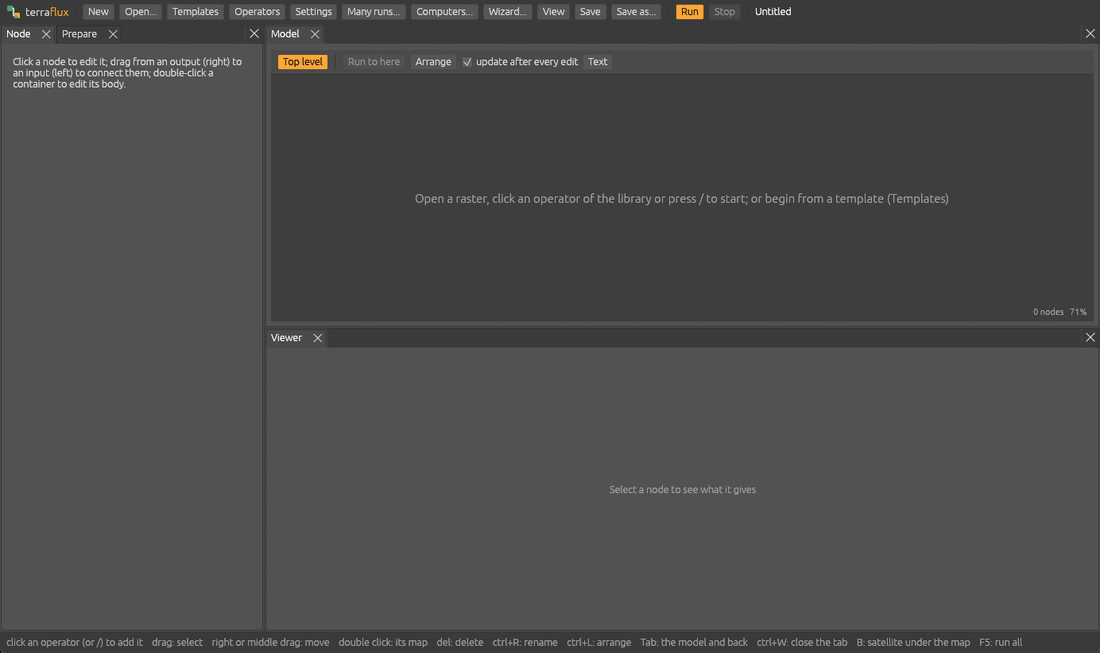
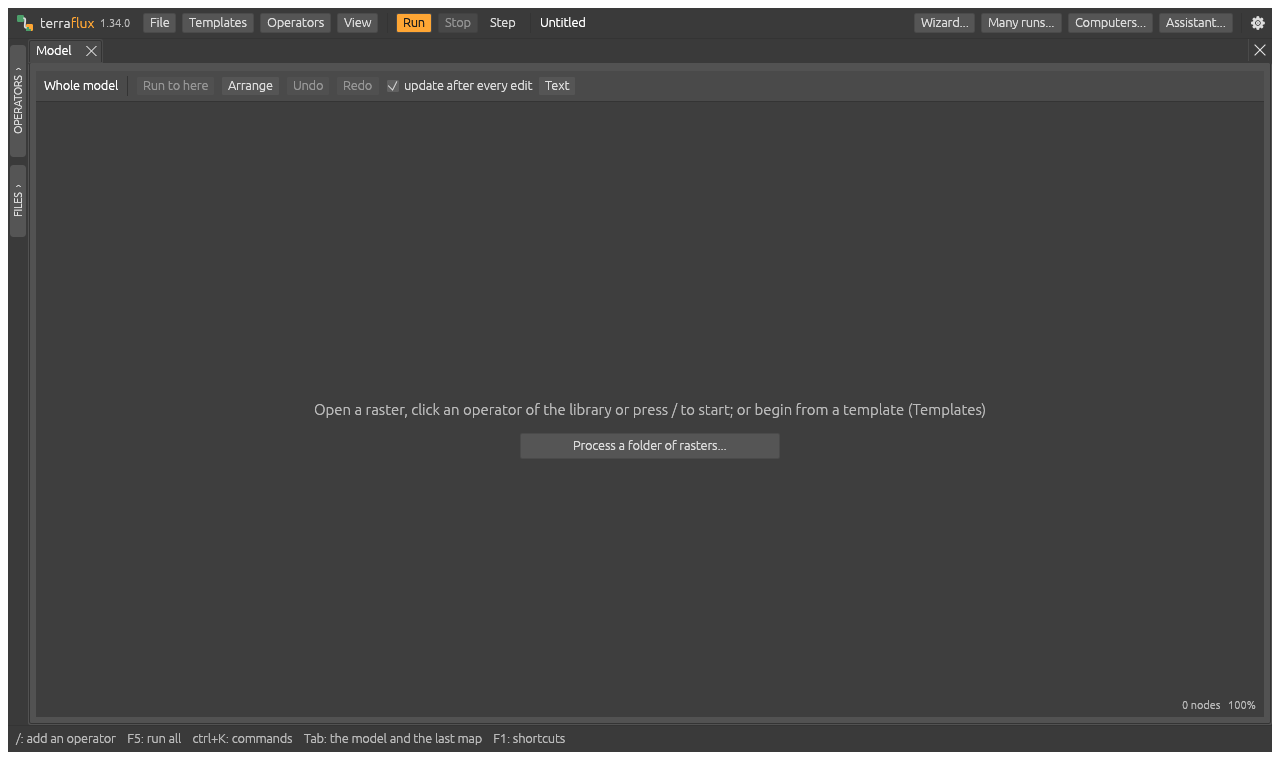
docs(site): the tour's pictures of the window made again from 1.34, by a test

diff --git a/crates/app/tests/readme_images.rs b/crates/app/tests/readme_images.rs
@@ -26,6 +26,14 @@ fn harness() -> Harness<'static, TerrafluxApp> {
 
 /// A window of `size` points drawn at `ppp` pixels a point (larger, for a picture cut to one part of it).
 fn harness_at(size: (f32, f32), ppp: f32) -> Harness<'static, TerrafluxApp> {
+    harness_marked(size, ppp, Marks::default())
+}
+
+/// Numbers drawn over the window (a picture's parts, explained below it): where, and the number.
+type Marks = std::sync::Arc<std::sync::Mutex<Vec<(egui::Pos2, String)>>>;
+
+/// A window with `marks` drawn over it, each number in an orange disc.
+fn harness_marked(size: (f32, f32), ppp: f32, marks: Marks) -> Harness<'static, TerrafluxApp> {
     let dir = PathBuf::from(env!("CARGO_TARGET_TMPDIR"));
     std::fs::create_dir_all(&dir).unwrap();
     unsafe { std::env::set_var("TERRAFLUX_SETTINGS", dir.join("readme-settings.json")) };
@@ -39,7 +47,28 @@ fn harness_at(size: (f32, f32), ppp: f32) -> Harness<'static, TerrafluxApp> {
         .with_size(size)
         .with_pixels_per_point(ppp)
         .renderer(egui_kittest::wgpu::WgpuTestRenderer::from_render_state(rs))
-        .build_ui_state(|ui, app: &mut TerrafluxApp| app.frame(ui), TerrafluxApp::new(None));
+        .build_ui_state(
+            move |ui, app: &mut TerrafluxApp| {
+                app.frame(ui);
+                let painter = ui.ctx().layer_painter(egui::LayerId::new(egui::Order::Tooltip, egui::Id::new("marks")));
+                for (at, n) in marks.lock().unwrap().iter() {
+                    painter.circle(
+                        *at,
+                        11.0,
+                        egui::Color32::from_rgb(240, 160, 20),
+                        egui::Stroke::new(1.5, egui::Color32::BLACK),
+                    );
+                    painter.text(
+                        *at,
+                        egui::Align2::CENTER_CENTER,
+                        n,
+                        egui::FontId::proportional(13.0),
+                        egui::Color32::BLACK,
+                    );
+                }
+            },
+            TerrafluxApp::new(None),
+        );
     h.run_steps(2);
     h
 }
@@ -395,4 +424,87 @@ out mean_hsi = hsi.mean()";
     }
     h.run_steps(3);
     shoot(&mut h, "my-node.png", Some([228.0, 45.0, 1062.0, 625.0]));
+}
+
+/// The tour's pictures of the window (website/static/img/tutorials/getting-started/tour): the template "MSPA of a
+/// forest" run, its parts numbered as the tour explains them, and the Model pane alone.
+#[test]
+#[ignore = "the website's pictures: run with --ignored"]
+fn tour_images() {
+    let out = std::env::var("TOUR_OUT").map(PathBuf::from).unwrap_or_else(|_| {
+        PathBuf::from(env!("CARGO_MANIFEST_DIR")).join("../../website/static/img/tutorials/getting-started/tour")
+    });
+    std::fs::create_dir_all(&out).unwrap();
+    use egui_kittest::kittest::{NodeT, Queryable};
+    let marks = Marks::default();
+    // (wide enough for the bar's tools on it, not in its Tools menu)
+    let mut h = harness_marked((1280.0, 760.0), 1.0, marks.clone());
+    // the window as it opens
+    settled(&mut h);
+    h.render().expect("the window drawn by wgpu").save(out.join("empty.png")).unwrap();
+    let t = terraflux_app::templates::TEMPLATES.iter().find(|t| t.name == "MSPA of a forest").expect("the template");
+    let ctx = h.ctx.clone();
+    h.state_mut().start_template(&ctx, t);
+    settled(&mut h);
+    {
+        // the panes as the template opens them, the Viewer dragged below the Model (the tour's tip says how)
+        let a = h.state_mut();
+        let mut d = DockState::new(vec![Pane::Model, Pane::Document]);
+        let s = d.main_surface_mut();
+        let [right, _] = s.split_left(NodeIndex::root(), 0.2, vec![Pane::Node, Pane::Prepare]);
+        s.split_below(right, 0.45, vec![Pane::Viewer]);
+        a.dock = Some(d);
+        let s = a.session.as_mut().unwrap();
+        terraflux_app::builder::open_plot(s, &terraflux_ops::Registry::standard(), "plot");
+        s.selected = Some("mspa".into());
+        s.ask_viewer = false;
+    }
+    h.run_steps(3);
+    h.state_mut().session.as_mut().unwrap().editor.fit();
+    settled(&mut h);
+    let t = Instant::now();
+    while t.elapsed() < Duration::from_secs(2) {
+        h.step();
+        std::thread::sleep(Duration::from_millis(20));
+    }
+    // where a part is: the first widget whose words have these (its rectangle, points); the panes' tabs are not
+    // widgets, so they are found from the widgets of their panes
+    let rect = |h: &Harness<TerrafluxApp>, words: &str| -> egui::Rect {
+        let n = h
+            .query_all_by_label_contains("")
+            .find(|n| {
+                let a = n.accesskit_node();
+                a.label().is_some_and(|l| l.contains(words)) || a.value().is_some_and(|v| v.contains(words))
+            })
+            .unwrap_or_else(|| panic!("{words:?} in the window"));
+        let b = n.accesskit_node().bounding_box().expect("a place");
+        egui::Rect::from_min_max(egui::pos2(b.x0 as f32, b.y0 as f32), egui::pos2(b.x1 as f32, b.y1 as f32))
+    };
+    let (whole, save, metadata) = (rect(&h, "Whole model"), rect(&h, "Save output"), rect(&h, "Metadata"));
+    // the Model pane alone: from its tab (above its bar) to the Viewer's tabs, as wide as the Viewer's pane
+    let img = h.render().expect("the window drawn by wgpu");
+    let (x0, y0) = ((whole.left() - 14.0) as u32, (whole.top() - 36.0) as u32);
+    let (x1, y1) = ((metadata.right() + 15.0) as u32, (save.top() - 40.0) as u32);
+    image::imageops::crop_imm(&img, x0, y0, x1 - x0, y1 - y0).to_image().save(out.join("model-pane.png")).unwrap();
+    // the window, its parts numbered as the tour explains them
+    let beside = |r: egui::Rect| egui::pos2(r.right() + 16.0, r.center().y);
+    let before = |r: egui::Rect| egui::pos2(r.left() - 16.0, r.center().y);
+    let rename = rect(&h, "Rename");
+    let places = [
+        ("1", before(rect(&h, "Wizard"))),
+        ("2", beside(rect(&h, "done in"))),
+        ("3", beside(rename)),
+        // (the Prepare tab, above the Node pane's name; the Viewer's tab, above its bar)
+        ("4", egui::pos2(rename.left() + 2.0, rename.top() - 29.0)),
+        ("5", egui::pos2(whole.left() + 200.0, whole.bottom() + 50.0)),
+        ("6", beside(rect(&h, "Text"))),
+        ("7", egui::pos2(whole.left() + 81.0, save.top() - 25.0)),
+        ("8", egui::pos2(save.center().x, save.top() - 12.0)),
+        ("9", before(rect(&h, "Background")) - egui::vec2(18.0, 0.0)),
+        ("10", rect(&h, "add an operator").left_top() + egui::vec2(10.0, -12.0)),
+    ];
+    *marks.lock().unwrap() = places.iter().map(|(n, at)| (*at, n.to_string())).collect();
+    h.run_steps(2);
+    let img = h.render().expect("the window drawn by wgpu");
+    img.save(out.join("window.png")).unwrap();
 }

diff --git a/website/content/tutorials/getting-started/tour.md b/website/content/tutorials/getting-started/tour.md
@@ -60,11 +60,13 @@ Open Terraflux (from the Start menu on Windows, Applications on macOS, the menu 
 typing `terraflux app` in a terminal). The window starts empty, with a message in the middle of the canvas:
 *Open a raster, click an operator of the library or press / to start; or begin from a template (Templates)*.
 
-![The empty window of Terraflux](/img/tutorials/getting-started/tour/empty.png "Terraflux as it opens: the toolbar at the top, the Node and Prepare panes on the left, the Model pane (an empty canvas) and the Viewer on the right, and a line of keyboard hints at the bottom. Screenshot of Terraflux 0.79 on Windows.")
+![The empty window of Terraflux](/img/tutorials/getting-started/tour/empty.png "Terraflux as it opens: the toolbar at the top, the Model pane (an empty canvas) in the whole window, the Operators and Files drawers at its left edge, and a line of keyboard hints at the bottom. The other panes come when they have something to show. Screenshot of Terraflux 1.34 on Windows.")
 
-Here is the same window after a template has run, with its parts numbered:
+Here is the same window after a template has run, with its parts numbered. The template brings the Node and
+Prepare panes at the left, and the Document and the Viewer as tabs behind the Model's; here the Viewer's tab was
+dragged below the Model, to see both:
 
-![The parts of the window](/img/tutorials/getting-started/tour/window.png "The window with the template 'MSPA of a forest' run. Numbers are explained below. Screenshot of Terraflux 0.79 on Windows (the theme Default).")
+![The parts of the window](/img/tutorials/getting-started/tour/window.png "The window with the template 'MSPA of a forest' run, the Viewer dragged below the Model. Numbers are explained below. Screenshot of Terraflux 1.34 on Windows (the theme Default).")
 
 1. **The toolbar.** The **File** menu (*New model*, *Open...*, *Open recent*, *Save*, *Save as...*, *Open a raster
    or vectors...*, *Compare* and *Export report*), *Templates* (models to start from), *Operators* (the library
@@ -86,12 +88,14 @@ Here is the same window after a template has run, with its parts numbered:
    names need (an input's and an output's never run into each other); drag its right edge to make it wider, and
    double-click the edge to bring it back to the width its names need.
 6. **The Model pane's bar**: where you are in the model (*Whole model*, or inside a loop), **Run to here** (run the
-   node selected and what it needs, ++ctrl+enter++), **Arrange** (tidy the nodes, ++ctrl+l++), **update after every
-   edit** (run again by itself after every change) and **Text** (the model as text).
+   node selected and what it needs, ++ctrl+enter++), **Arrange** (tidy the nodes, ++ctrl+l++), **Undo** and **Redo**, **update after
+   every edit** (run again by itself after every change) and **Text** (the model as text).
 7. **The Viewer.** It shows what the node selected gives, refreshed at every run; a double click on a node
    brings it to the front with that node's output, and keeps it there as a layer.
-8. **Save output** (the map shown as a GeoTIFF file, with or without a [[raster.write]] node added to the model)
-   and **Metadata** (what the file or map says about itself: size, cell size, coordinate system, no data...).
+8. **Save output** (the map shown as a GeoTIFF file, with or without a [[raster.write]] node added to the model),
+   the **Plots** of the model (here *Plot: MSPA*, the one shown: what the Viewer shows kept with the model, see
+   [Plots and figures](../../building-models/plots-and-tables/)) and **Metadata** (what the file or map says about
+   itself: size, cell size, coordinate system, no data...).
 9. **The legend**: the classes of the map with their colours and their number of cells (here 300 x 300 cells, of
    which 33,168 are core forest), or a colour bar for continuous values.
 10. **The key hints**: a reminder of the mouse and keyboard actions of the pane under the pointer.

diff --git a/IDEAS.md b/IDEAS.md
@@ -1028,10 +1028,10 @@ ordem, transparência, estilo, comparação), mantendo a velocidade de hoje, e *
    Depois da 1.34.0: *Save as a new plot* e *Update the plot* gravam o gráfico escolhido no Viewer para uma tabela
    (`builder::chart_names`, pelos nomes das colunas; teste em `a_table_is_plotted_and_written`); os 23 trechos
    "under the canvas" do site corrigidos (4b4e6c8).
-   Falta: as figuras antigas do site (`tour/window.png`, `model-pane.png` ainda com quatro nós e a
-   aba MSPA); o diagrama de `fitting-models.md`
-   (perto da linha 252) que lê `data.records` sem nó `data` e sem `fragment: true` (já era assim; ver no
-   `build.py --check`).
+   As figuras do tour refeitas (`empty.png`, `window.png` com os números, `model-pane.png`) pelo teste
+   `readme_images::tour_images` (os números postos pelos lugares dos botões, `--ignored`), e as legendas e os
+   itens 6 e 8 do tour postos em dia. O diagrama de `fitting-models.md` já era `fragment: true` (o site sai sem
+   avisos): nada a fazer.
 5. **Depois** (a decidir, cada um à parte): reprojetar outro CRS por tile, ao desenhar; medir distância e área;
    soltar um arquivo no Viewer (o `raster.read` criado e a camada fixada); a tabela de atributos de uma camada de
    vetores; rótulos; o histograma de cada camada; exportar o Plot como PNG ou GeoTIFF composto.

diff --git a/CHANGELOG.md b/CHANGELOG.md
@@ -19,6 +19,8 @@ minor versions.
   attributes), not only the topmost one's.
 - Document: **a Plots section** lists the model's Plots (title, layers, comparison, the figure each is), and
   each figure has "open in the Viewer": the Plot opened there with its layers and settings.
+- Website: the tour's pictures of the window made again from 1.34 (the Model in the whole window as it opens; the
+  template run with its parts numbered; the Model pane), drawn by the test `readme_images::tour_images`.
 
 ## [1.34.0] - 2026-11-03
 
